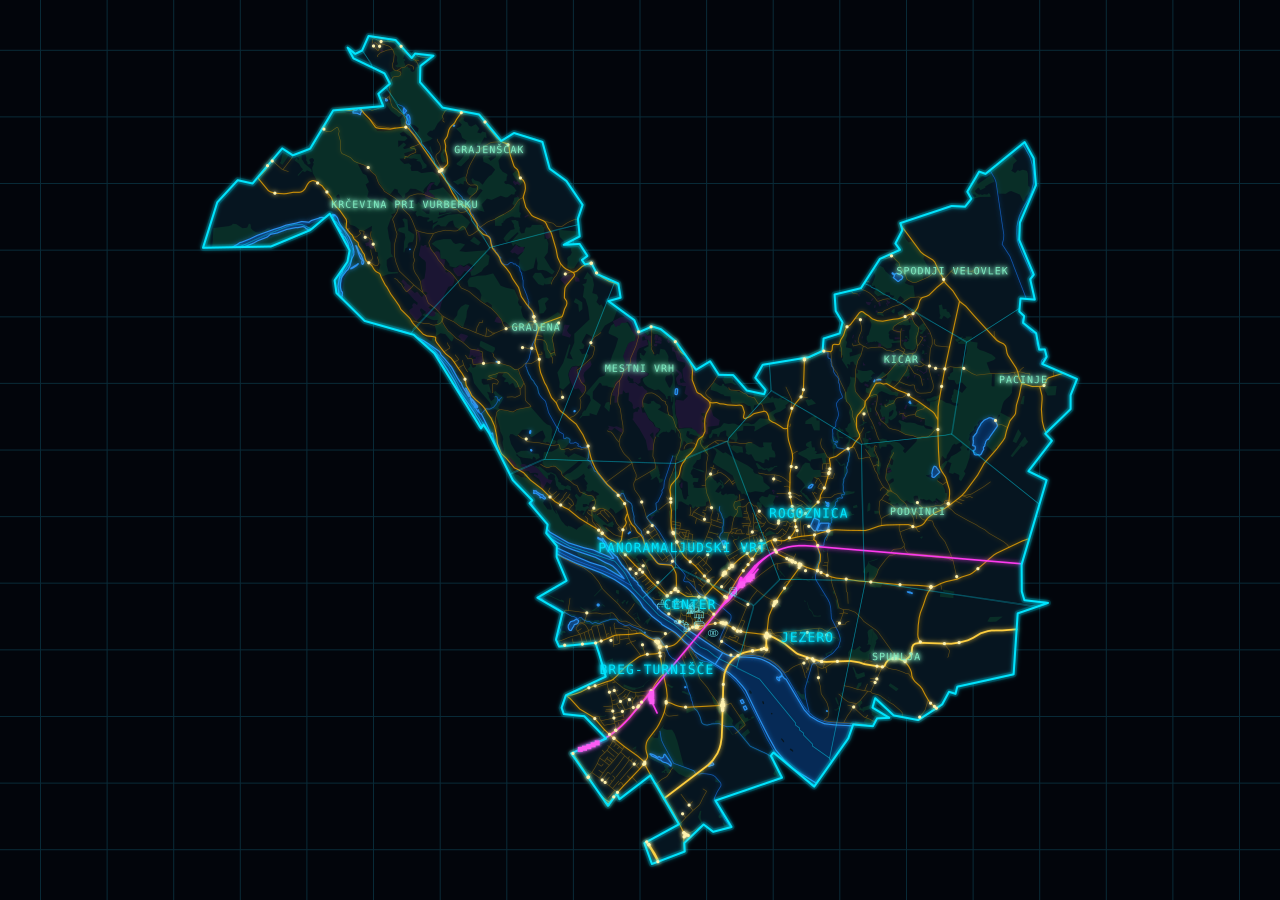
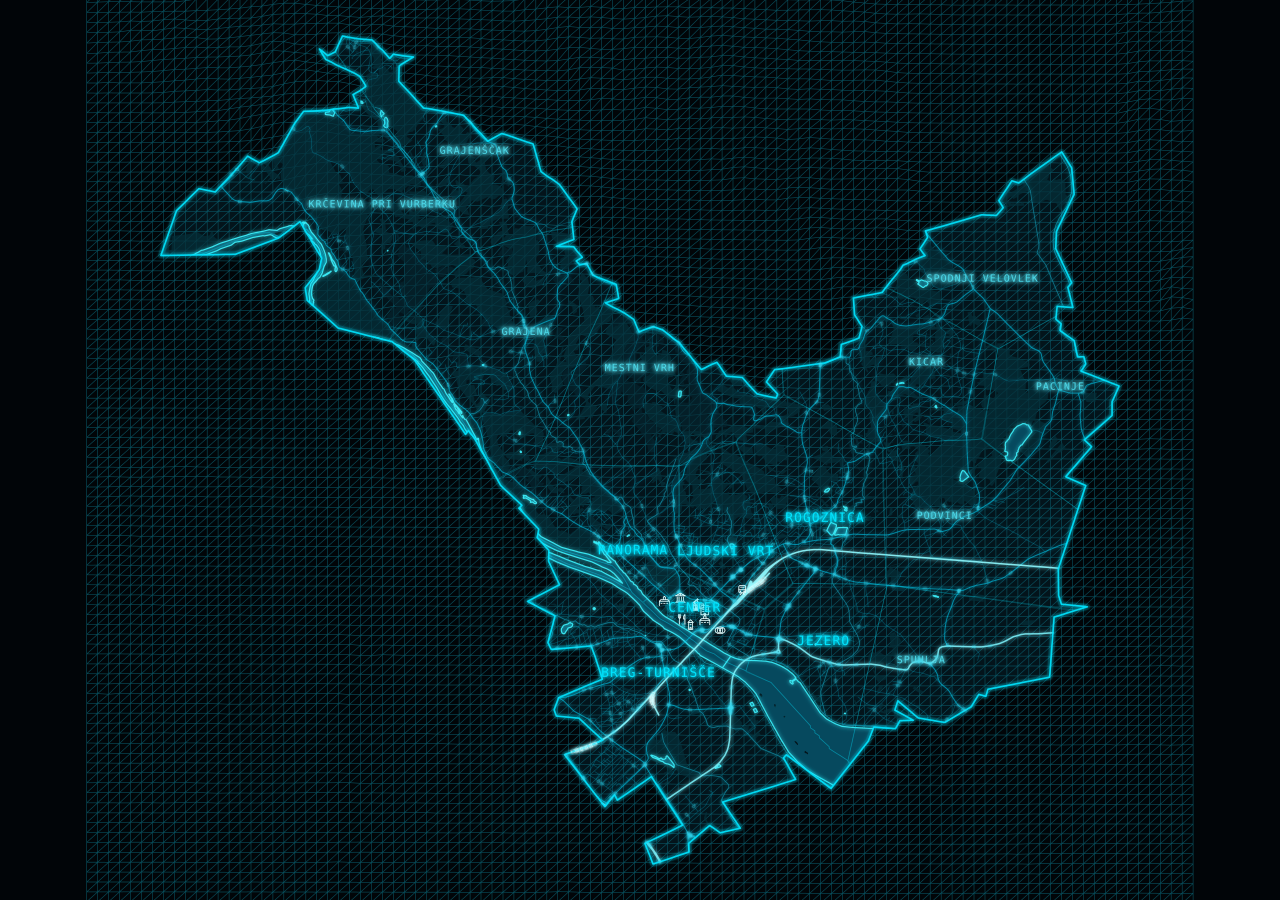
docs: update ptuj's documentation

diff --git a/packages/ptuj/README.md b/packages/ptuj/README.md
@@ -3,23 +3,24 @@
 A retro-futuristic cyan wireframe map of the Municipality of Ptuj, in the style of the vector screens of the 80s and 90s, with:
 
 1. its real outline,
-2. quarters,
+2. quarters and villages,
 3. the Drava and
 4. Ptujsko jezero,
-5. roads,
-6. railway and
-7. landmarks,
-8. with simulated road traffic (wireframe cars)
-9. and trains (wireframe wagons),
-10. all over the low poly hills of the real terrain (raised twice),
-11. with every place shown as a slowly turning 3D wireframe model; point at one for its address, operator, opening hours, phone and website,
-12. and the employers on the Employment Service of Slovenia's list of bans on employing foreigners marked: their icon turns into a skull now and again while a ban holds, and their details end with the date it runs to. A place is marked only when its OpenStreetMap address and a distinctive word of the employer's registered name both match the list (`python3 inkscape-scripts/osm/bans.py inkscape-scripts/osm/data` lists the matches).
+5. woods, vineyards and parks,
+6. roads,
+7. railway and
+8. landmarks,
+9. with simulated road traffic (wireframe cars)
+10. and trains (wireframe wagons),
+11. all over the low poly hills of the real terrain (raised twice), drawn as a faint wireframe of flat shaded triangles, with the hills hiding the lines, places and names behind them,
+12. with every place shown as a slowly turning 3D wireframe model; point at one for its address, operator, opening hours, phone and website,
+13. and the employers on the Employment Service of Slovenia's list of bans on employing foreigners marked: their model glitches into a skull now and again while a ban holds, and their details end with the date it runs to. A place is marked only when its OpenStreetMap address and a distinctive word of the employer's registered name both match the list (`python3 inkscape-scripts/osm/bans.py inkscape-scripts/osm/data` lists the matches).
 
 You move over it as in a first person game: click a spot to look at it and scroll to zoom to it, drag to look around, right drag to move, W A S D or the arrows to walk, E and Q to rise and sink, Shift to hurry, double click to fly nearer and Esc for the whole map. On a touchscreen, one finger looks around and two pinch and move.
 
-`inkscape-scripts/project.sh all` rebuilds `src/map/ptuj.json` from OpenStreetMap and `src/map/terrain.json` from elevation tiles (`project.sh terrain` only the latter, which needs Pillow), and the icons in `src/icons` are SVG for Inkscape.
+`inkscape-scripts/project.sh all` rebuilds `src/map/ptuj.json` from OpenStreetMap (with the list of bans) and `src/map/terrain.json` from elevation tiles (`project.sh terrain` only the latter, which needs Pillow). `project.sh preview` draws the map with Inkscape into the picture below, using the SVG icons in `src/icons`.
 
-![Ptuj neon map](screenshot.png)
+![Ptuj cyan wireframe map](screenshot.png)
 
 Map data © [OpenStreetMap](https://www.openstreetmap.org/copyright) contributors, available under the [ODbL](https://opendatacommons.org/licenses/odbl/). The quarter borders are approximate.
 
